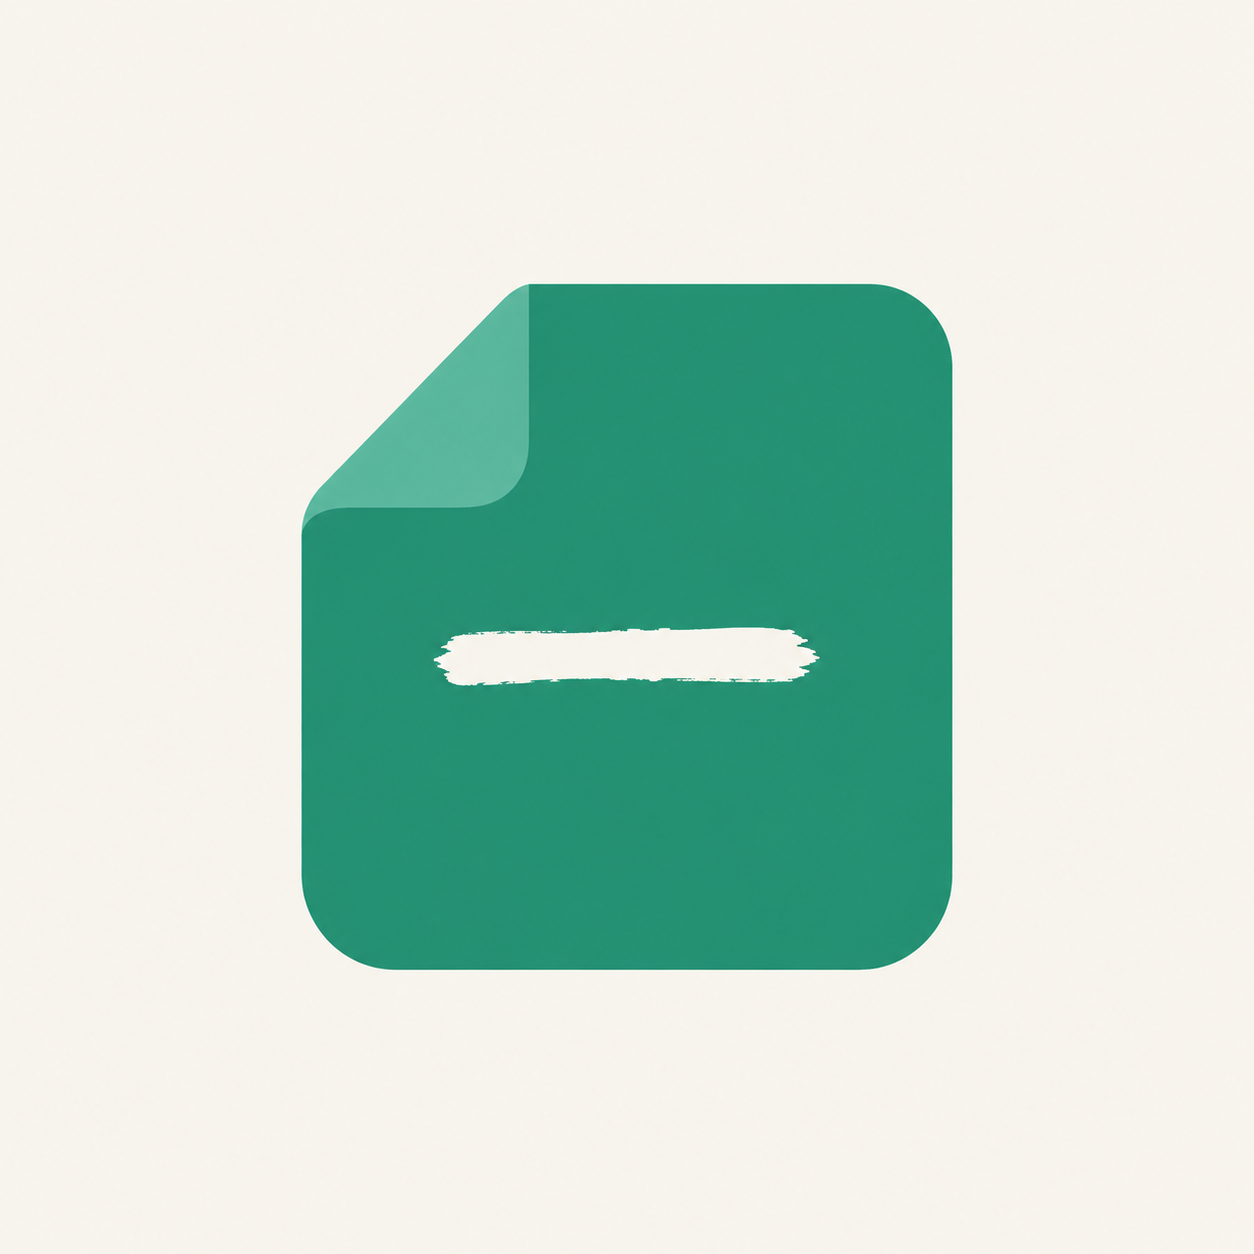
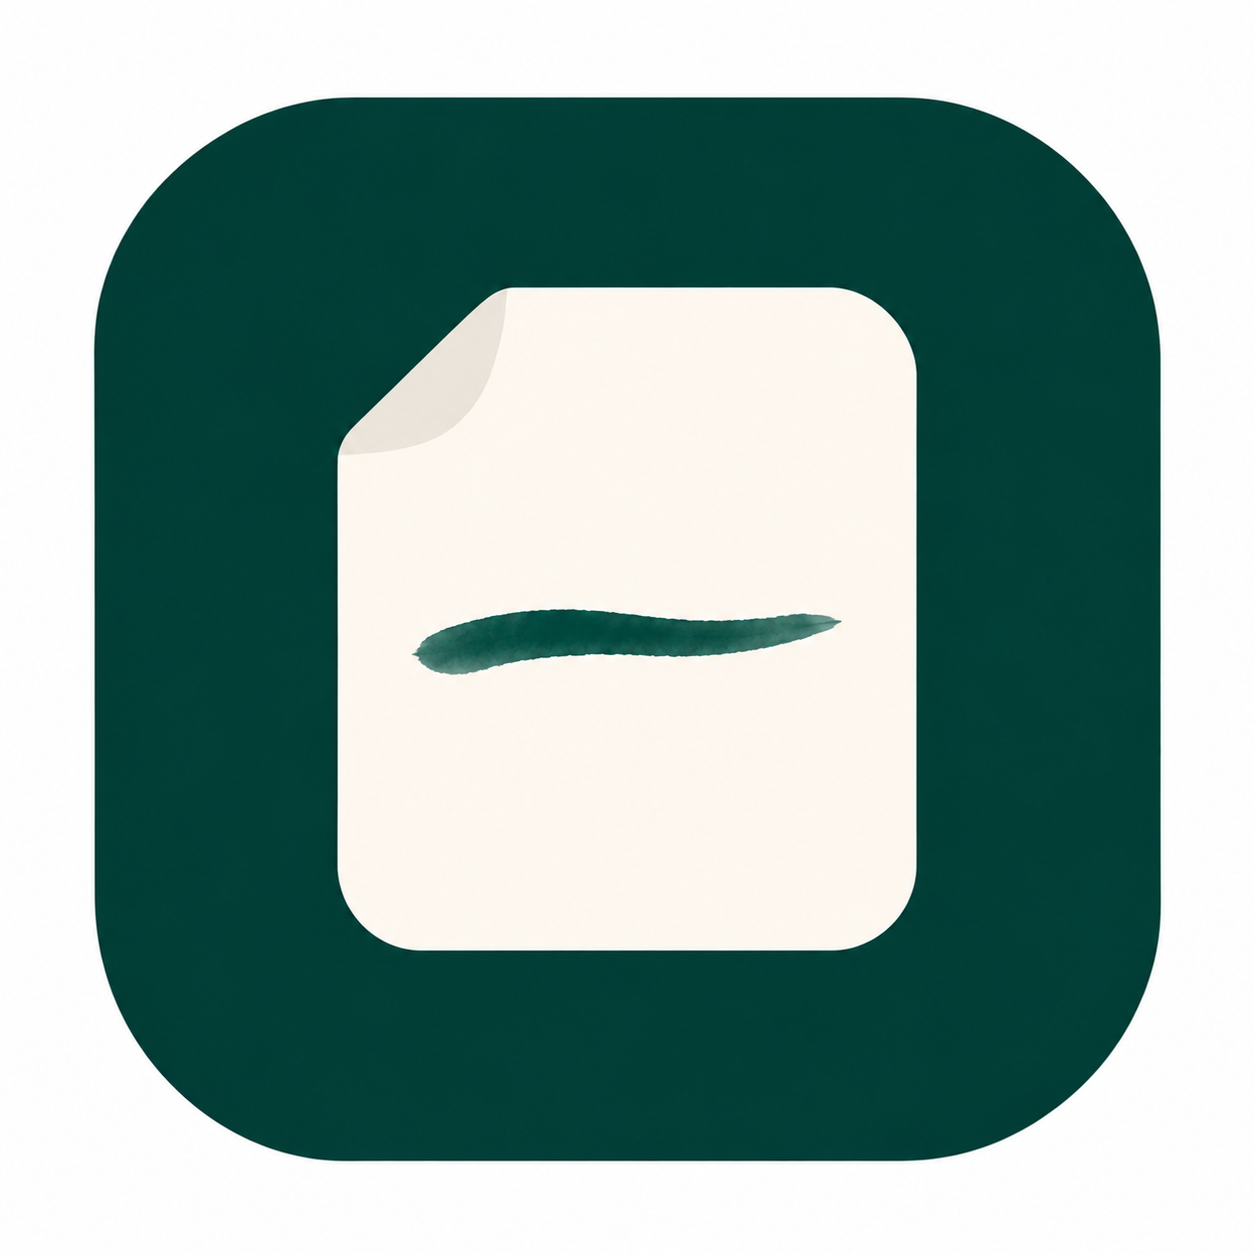
feat(android): 更换深绿折角桌面图标

diff --git a/docs/BUILD_AND_DEVICE_TESTING.md b/docs/BUILD_AND_DEVICE_TESTING.md
@@ -110,7 +110,7 @@ ls -lh build/app/outputs/flutter-apk/app-arm64-v8a-release.apk
 
 ### 3.2 安卓桌面图标
 
-1.1.136 的桌面图标母版是奶白底、青绿色折角便签。运行 `node tool/gen_icons.mjs` 生成五档密度的方形图标、圆形图标和自适应前景。自适应图标的底色在 `android/app/src/main/res/values/colors.xml`，与脚本输出的母版背景色一致。 [图标母版](picture/launcher-icon.png) · [生成脚本](../tool/gen_icons.mjs)
+1.1.140 的桌面图标母版采用深绿底、米白折角纸张与墨绿笔触。运行 `node tool/gen_icons.mjs` 生成五档密度的方形图标、圆形图标和自适应前景，并在临时目录输出圆形和圆角方形预览。自适应底色从母版底板取样，与 `android/app/src/main/res/values/colors.xml` 保持一致。 [图标母版](picture/launcher-icon.png) · [生成脚本](../tool/gen_icons.mjs)
 
 ### 3.3 委派安装已构建的 APK
 

diff --git a/README.en.md b/README.en.md
@@ -6,7 +6,7 @@ InkPaper is an Android note-taking app for personal knowledge capture. Local not
 
 ## Current Version
 
-`1.1.139`
+`1.1.140`
 
 The current source has passed Android device installation checks. See the release page for public downloads.
 
@@ -81,7 +81,7 @@ sdkmanager --licenses
 The app version is managed in `pubspec.yaml`, where `x.y.z` is the semantic version and `+N` is the build number:
 
 ```yaml
-version: 1.1.139+10239
+version: 1.1.140+10240
 ```
 
 When preparing a new build version, bump both the `x.y.z` patch and `+N` and update the current version in both READMEs. `dart tool/inkpaper.dart store-check` verifies that they match.

diff --git a/README.md b/README.md
@@ -6,7 +6,7 @@
 
 ## 当前版本
 
-`1.1.139`
+`1.1.140`
 
 当前源码已通过 Android 真机安装验收。公开安装包以发行页为准。
 
@@ -80,7 +80,7 @@ sdkmanager --licenses
 版本号统一维护在 `pubspec.yaml`，`x.y.z` 是语义版本，`+N` 是构建号：
 
 ```yaml
-version: 1.1.139+10239
+version: 1.1.140+10240
 ```
 
 构建新版本时同步增加 `x.y.z` 的 patch 和 `+N`，并更新中英文 README 的当前版本。`dart tool/inkpaper.dart store-check` 会核对版本一致性。
